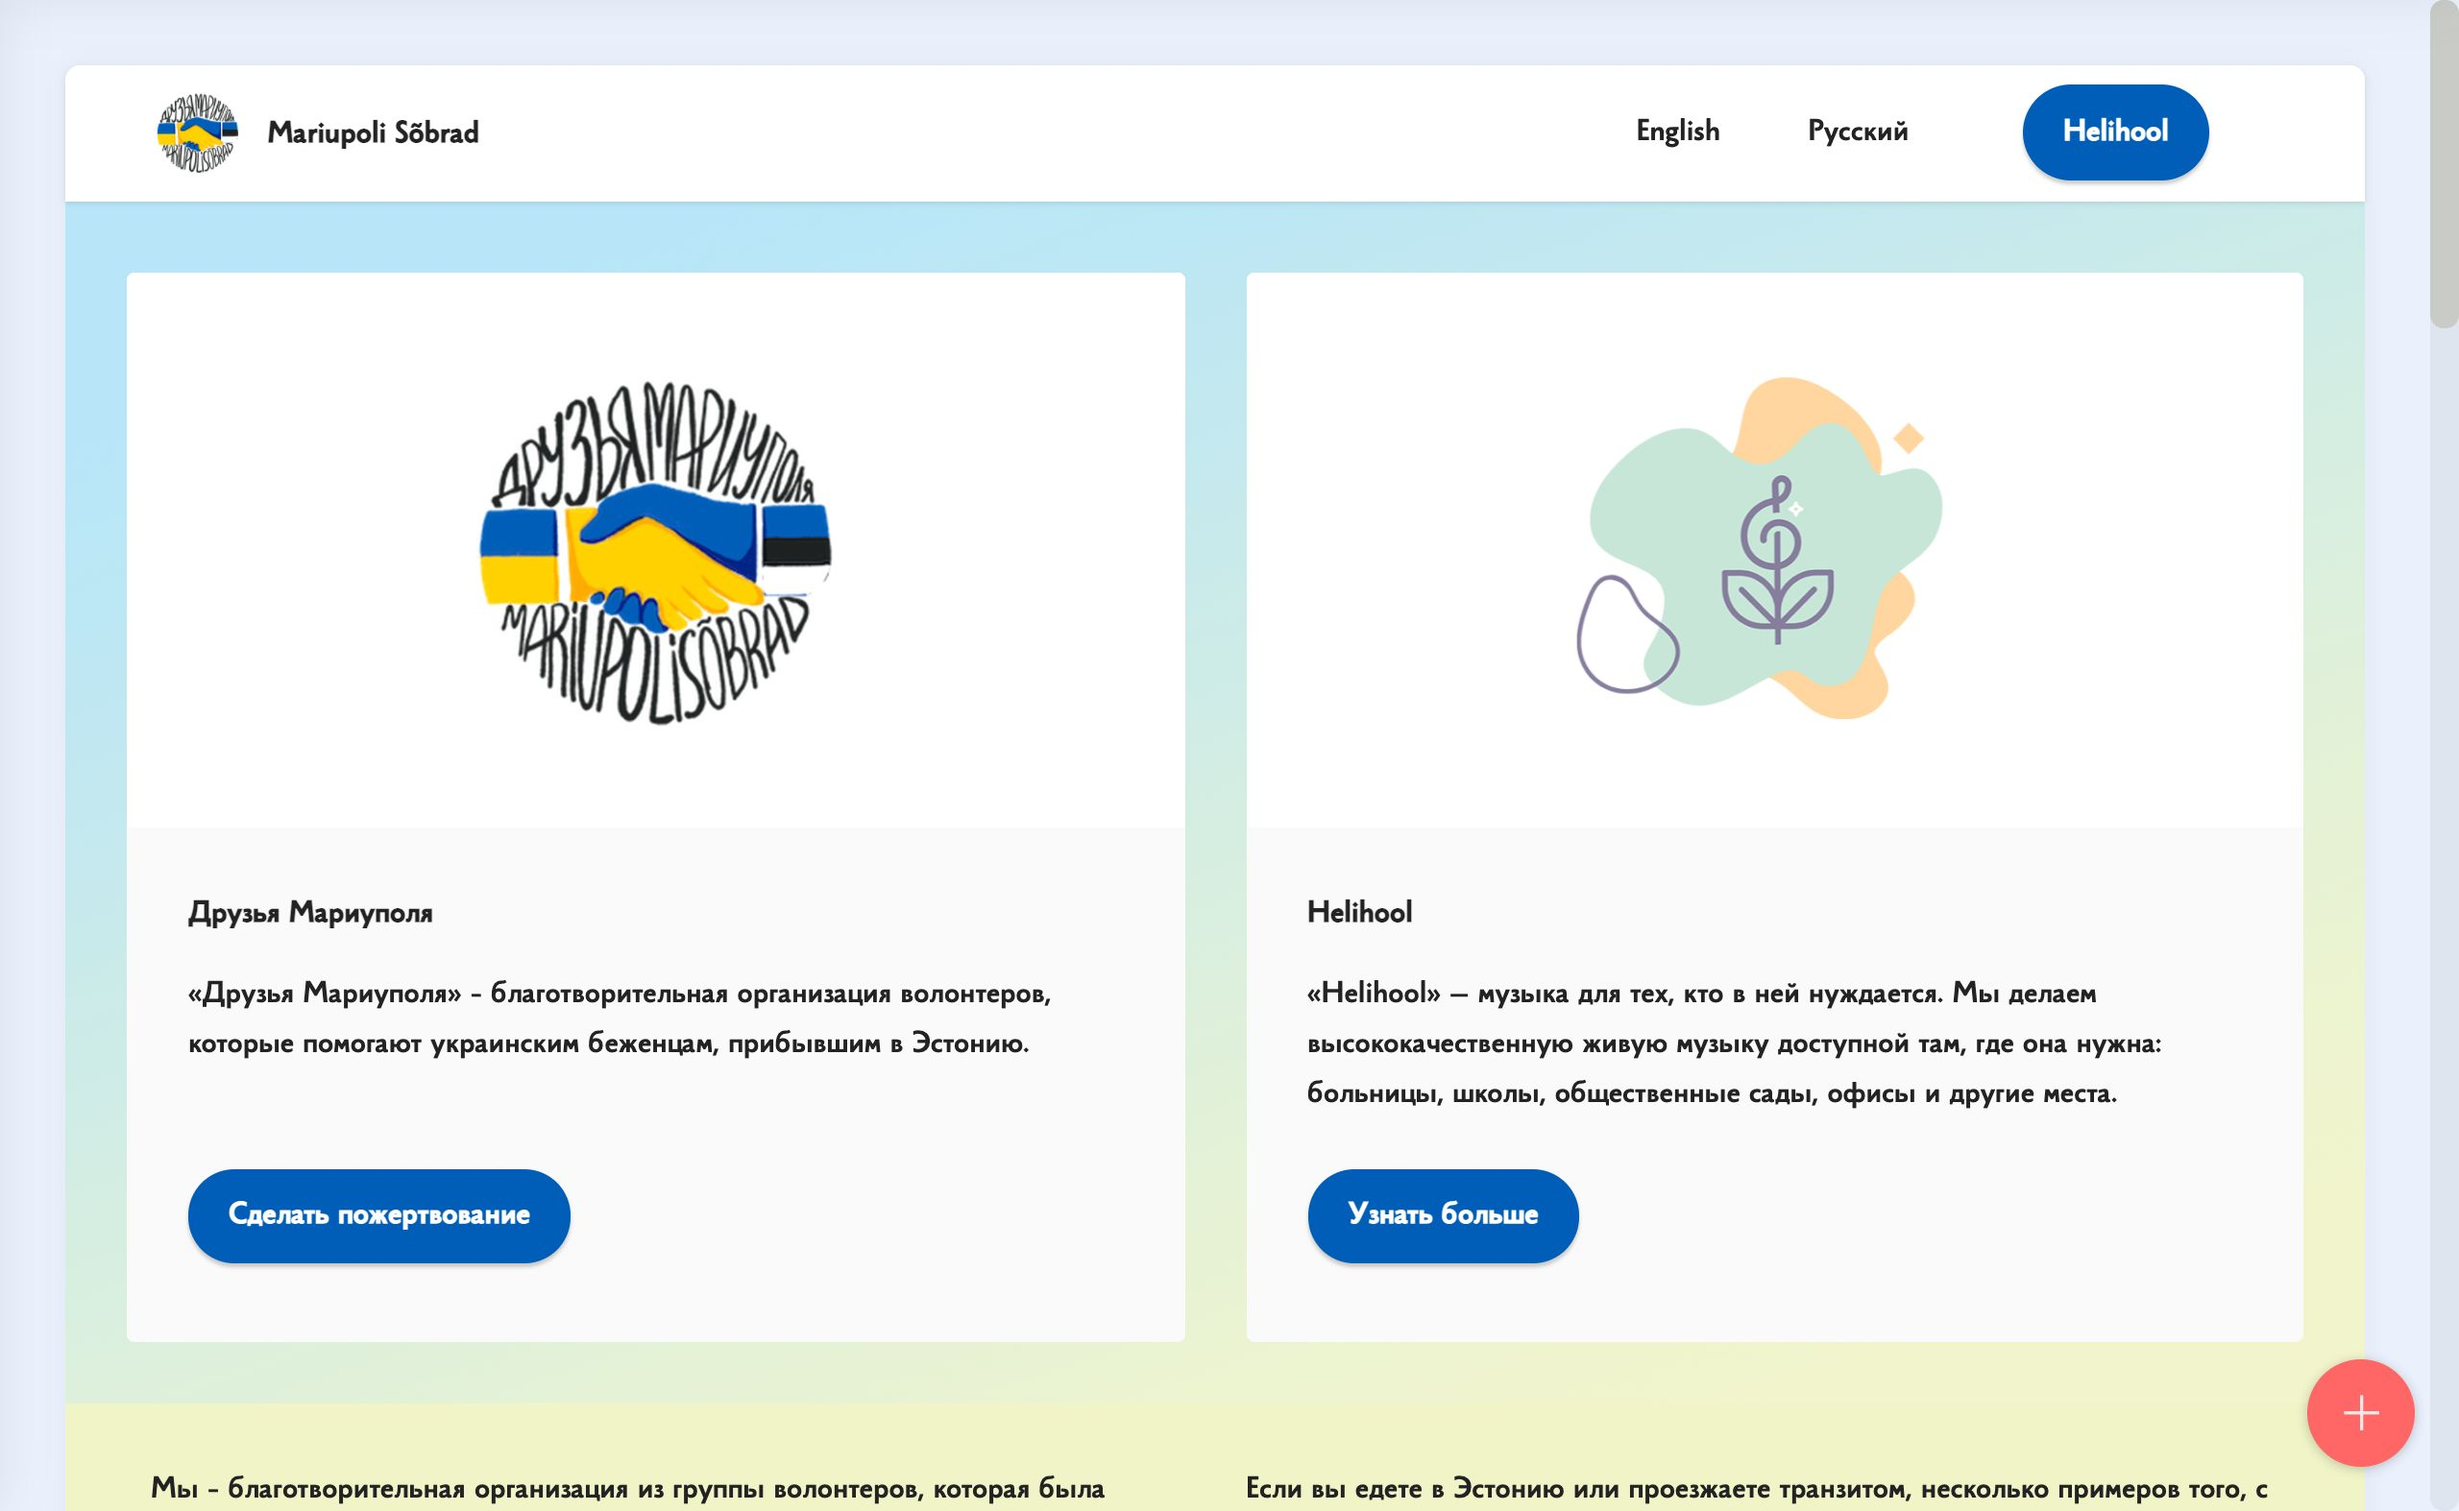
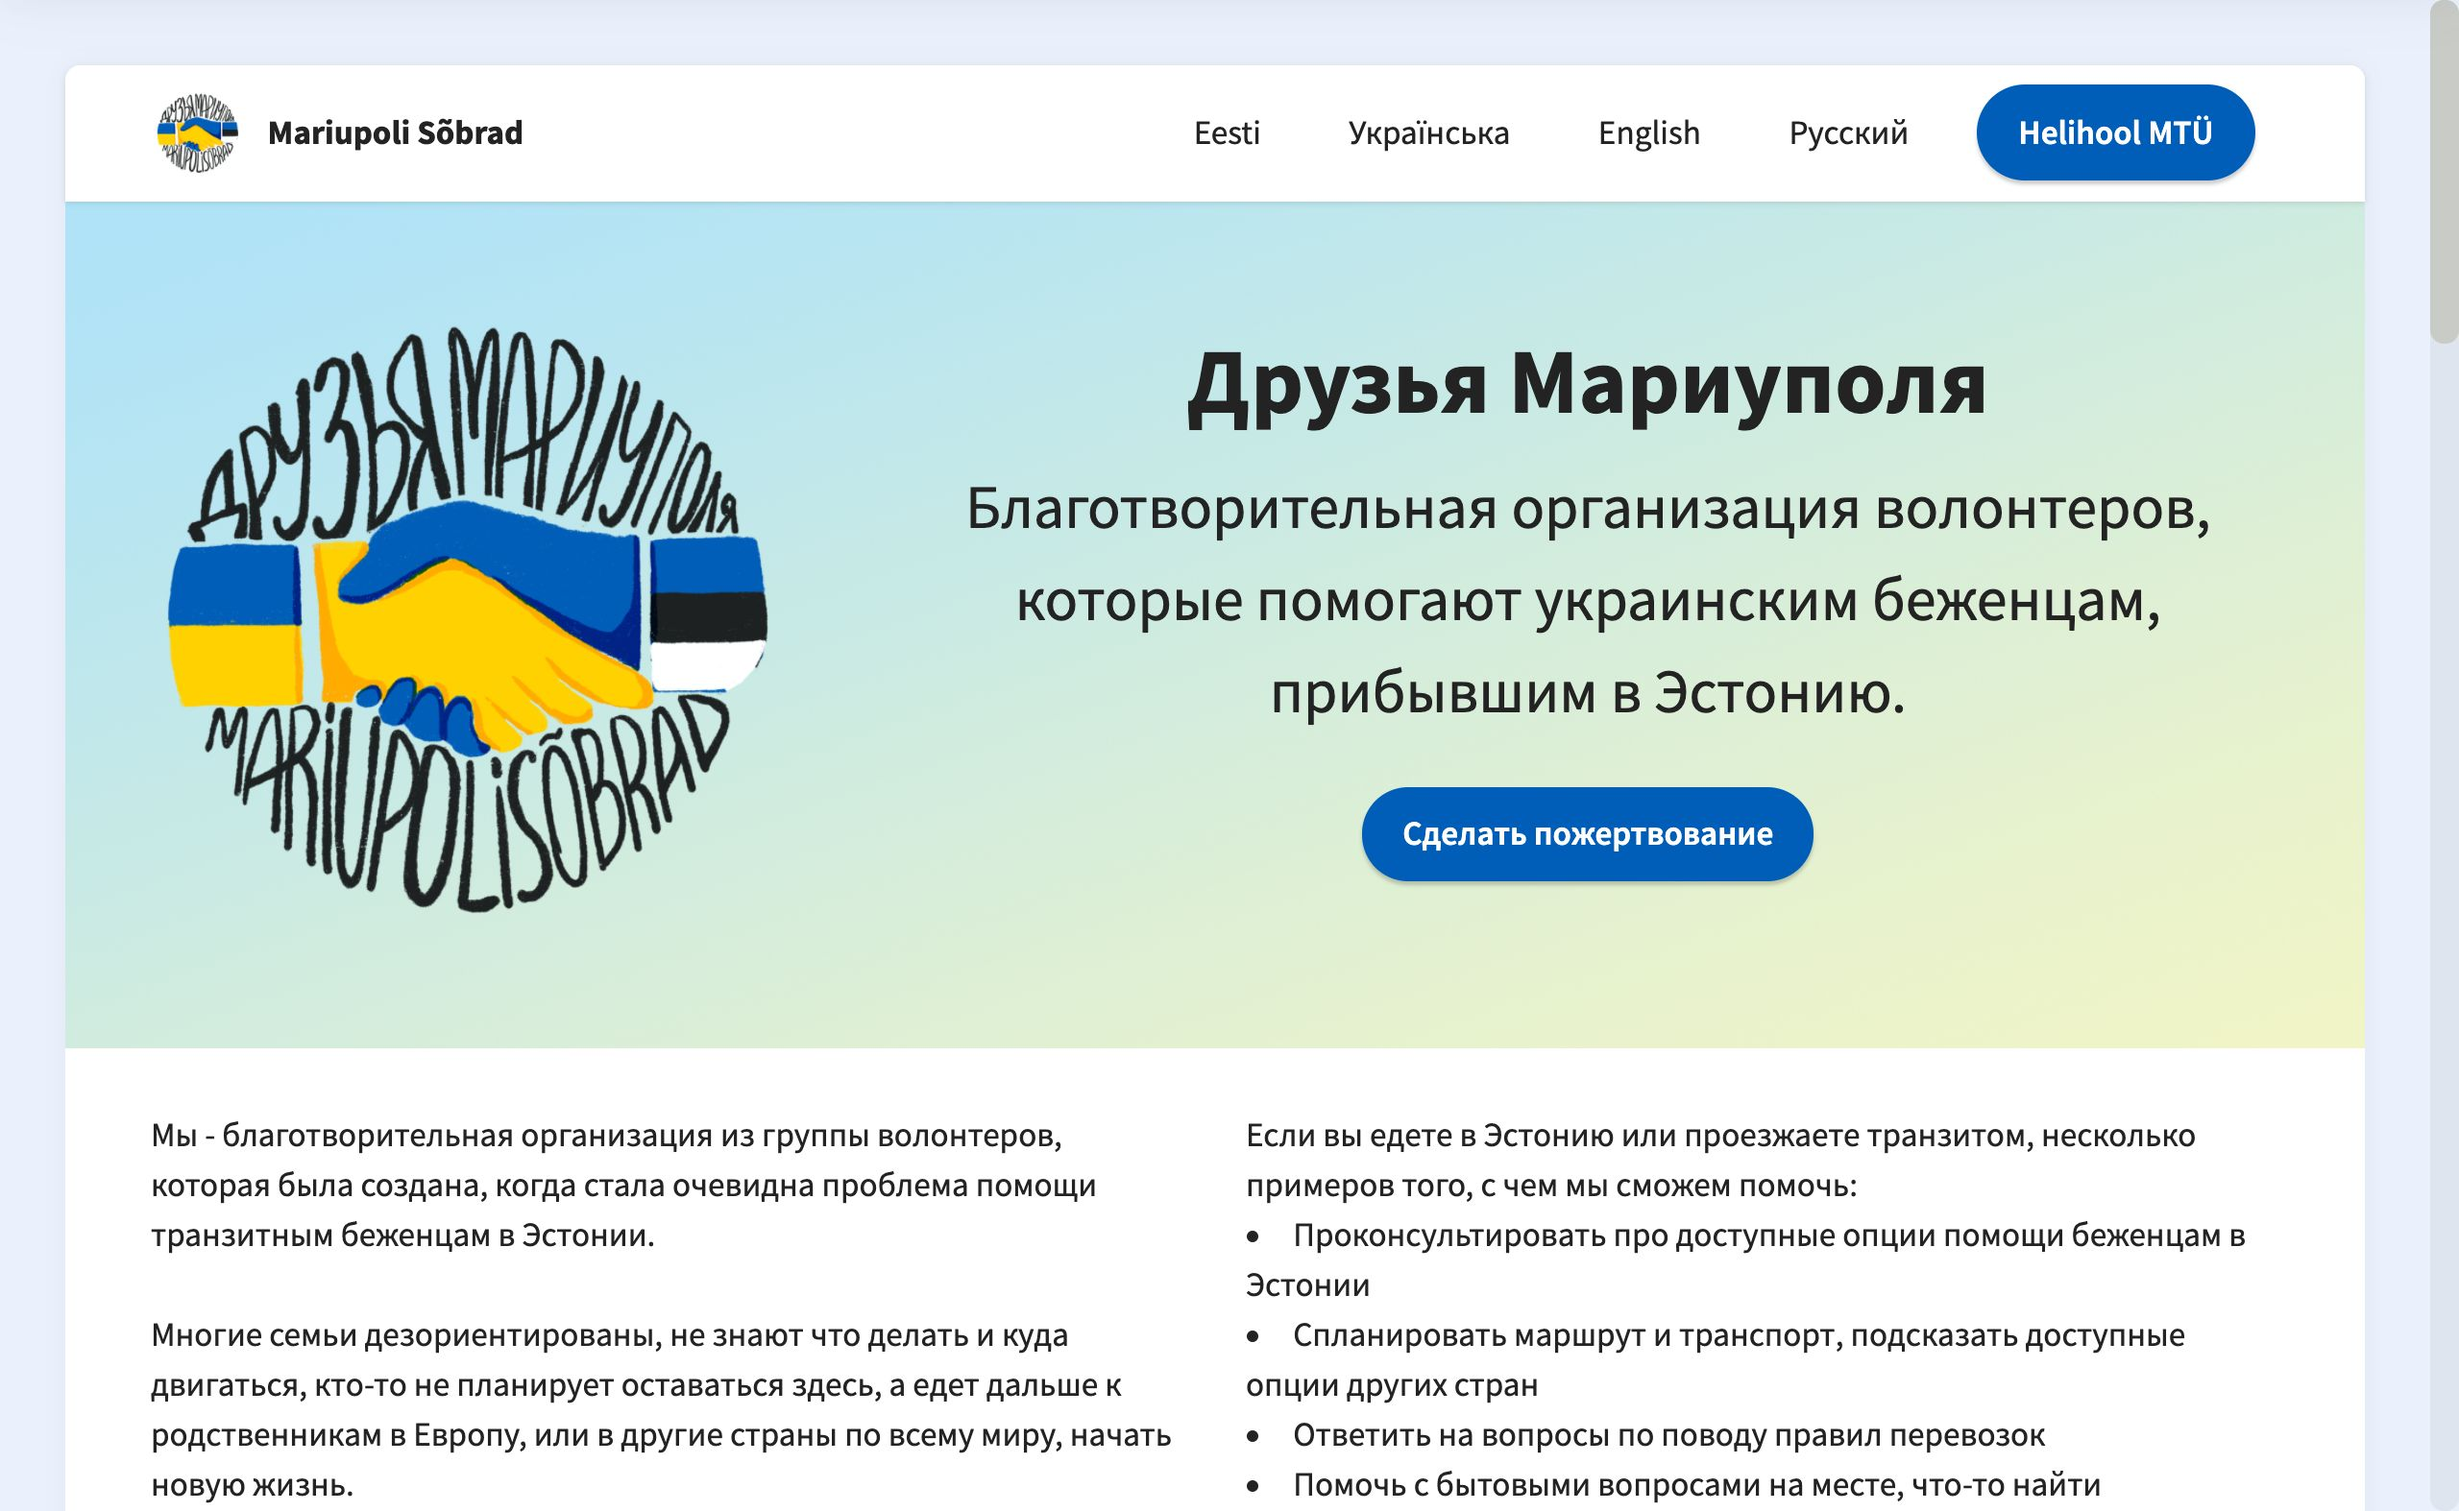
en fix

diff --git a/assets/mobirise/css/mbr-additional.css b/assets/mobirise/css/mbr-additional.css
@@ -1241,7 +1241,7 @@ a {
 .cid-t8bSPlHHBi {
   padding-top: 3rem;
   padding-bottom: 3rem;
-  background-color: #ffffff;
+  background-image: url("../../../assets/images/bg2-1900x1296.png");
 }
 .cid-t8bSPlHHBi .row {
   align-items: center;
